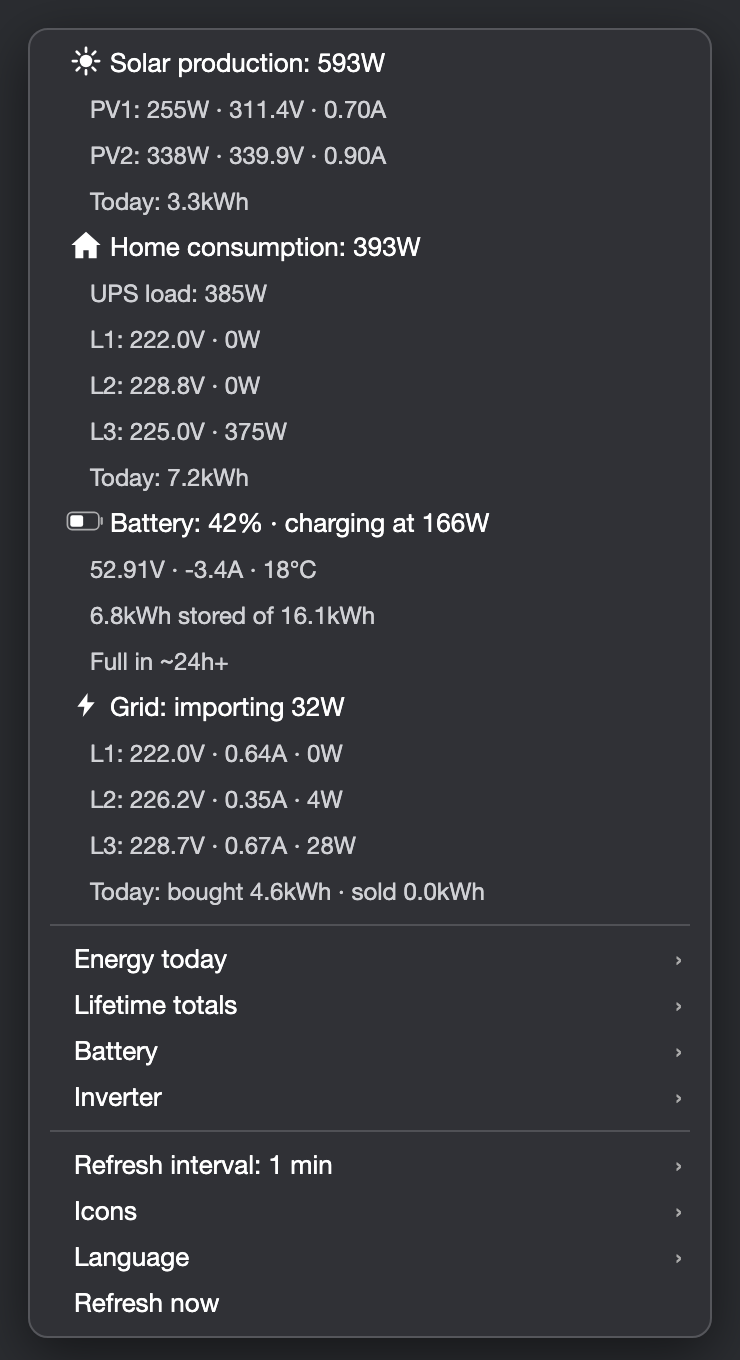
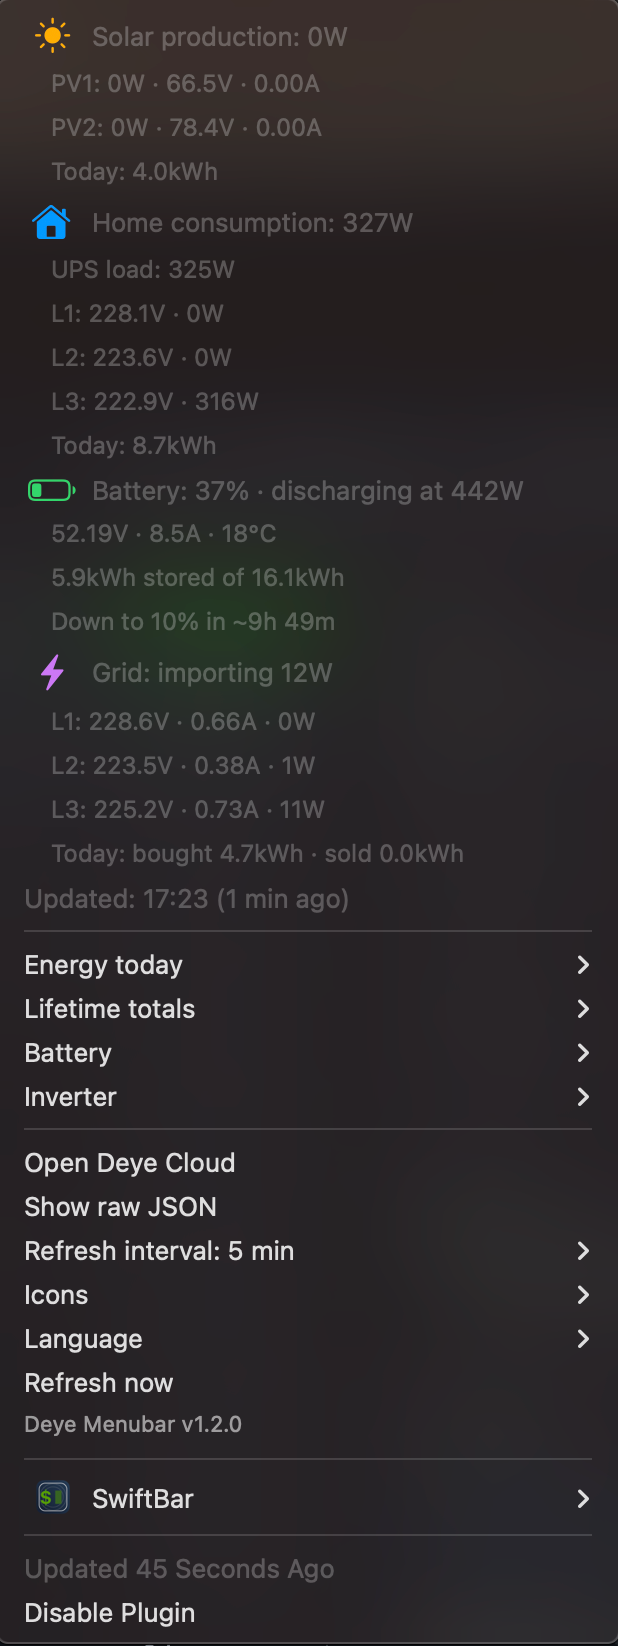
docs: real dropdown screenshot

diff --git a/CLAUDE.md b/CLAUDE.md
@@ -76,7 +76,6 @@ accounts `appSecret` and `passwordHash`.
 
 ## Open items
 
-- `docs/menubar.png` is a real SwiftBar screenshot. `docs/menu.png` is still a mockup
-  rendered from the test fixture; replace it with a real screenshot (no location or
-  personal data).
+- `docs/menubar.png` and `docs/menu.png` are real SwiftBar screenshots (v1.2.0). Retake
+  them if the look changes; keep location and personal data out of them.
 - LICENSE file comes from GitHub (MIT) with the maintainer's name.
